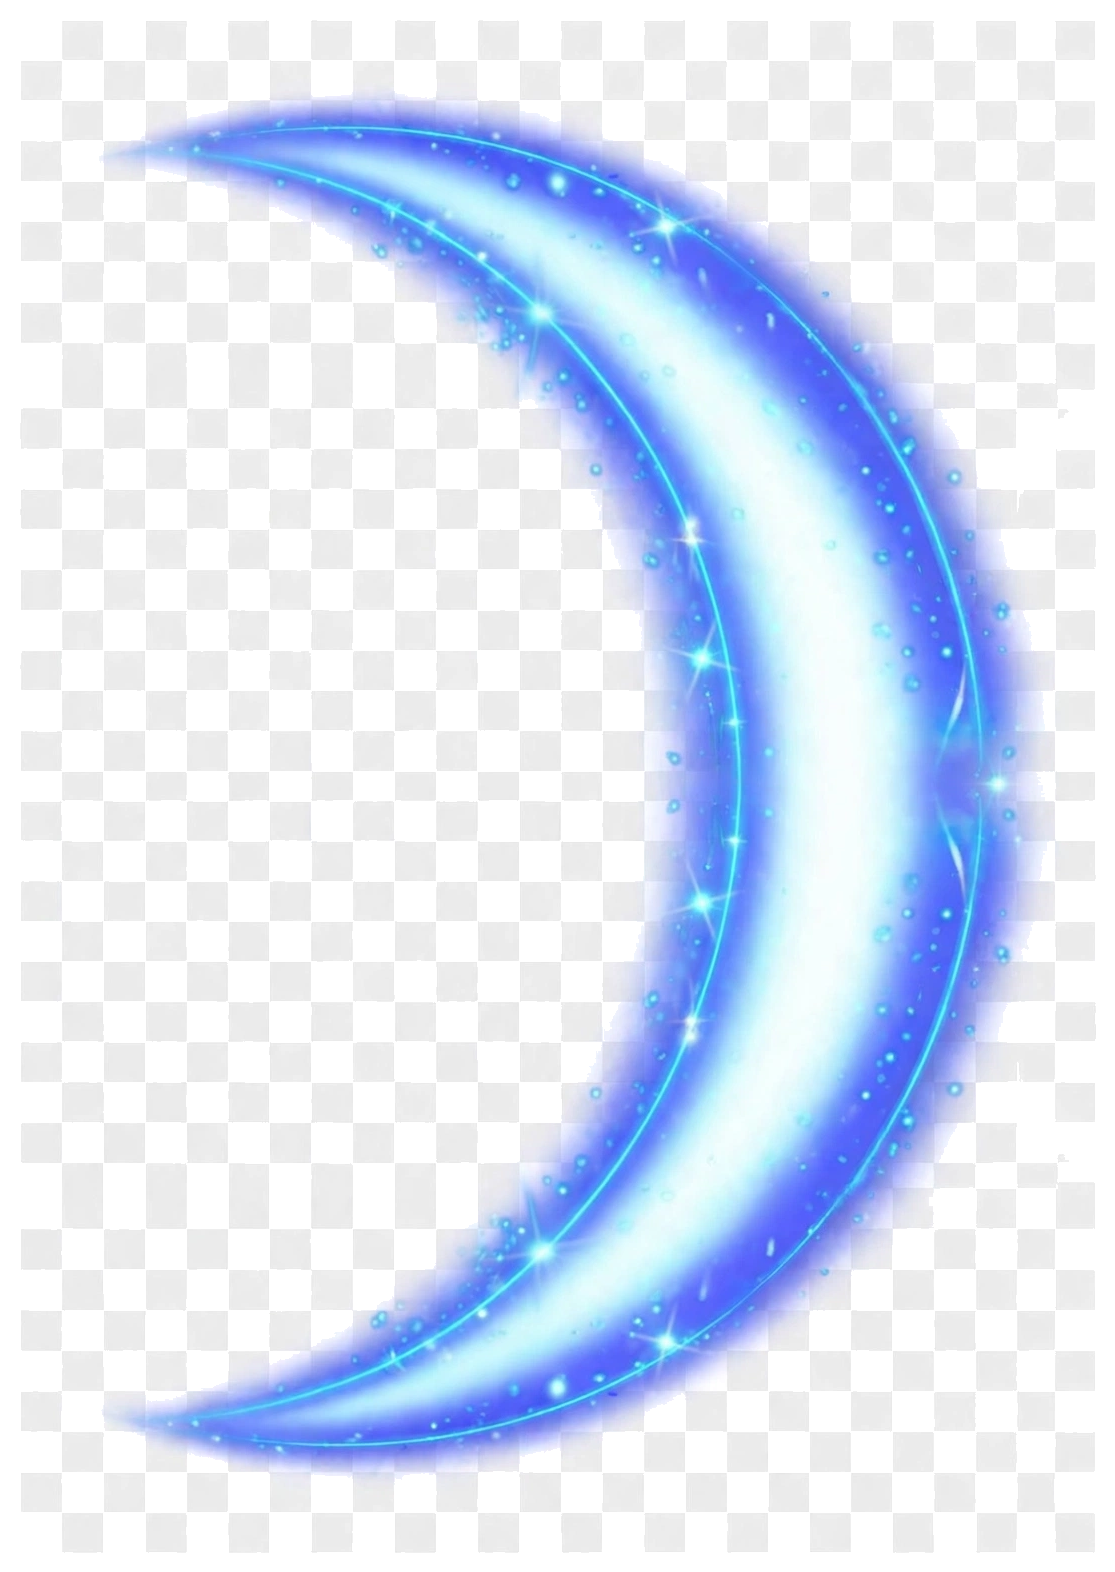
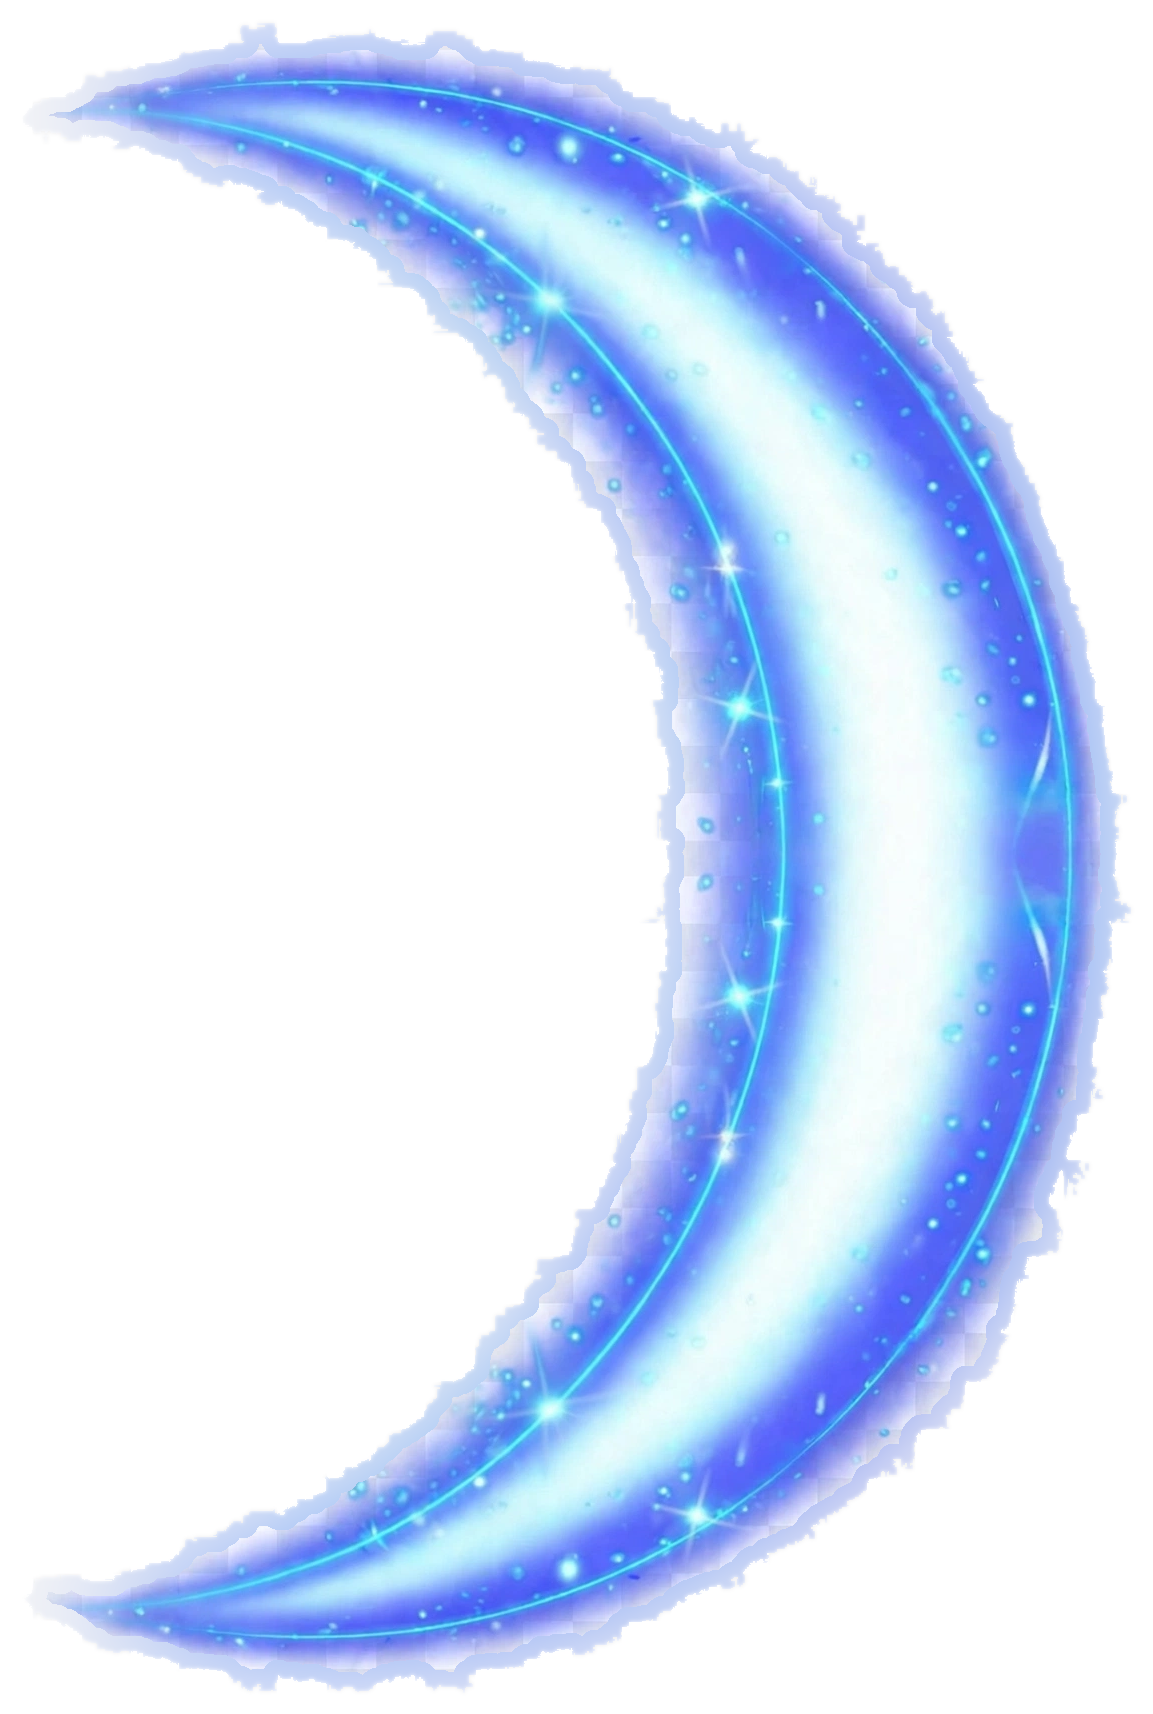
Prompt 172: disable UnlockAllForTesting, fix scorpion facing, R01S01 anchors, SwordQi image

diff --git a/Match3RPG/Assets/Scripts/Campaign/GameProgressService.cs b/Match3RPG/Assets/Scripts/Campaign/GameProgressService.cs
@@ -55,7 +55,7 @@ namespace Match3RPG.Campaign
 
         // TẠM MỞ HẾT ĐỂ TEST (Prompt 115) — sau khi test xong đặt lại false để khôi phục rule
         // phải qua map cũ mới mở map mới. KHÔNG xóa dữ liệu PlayerPrefs.
-        public static readonly bool UnlockAllForTesting = true;
+        public static readonly bool UnlockAllForTesting = false;
 
         public static int HighestUnlockedRegion => Mathf.Clamp(PlayerPrefs.GetInt(HighestRegionKey, 1), 1, 5);
 

diff --git a/Match3RPG/PROMPT_LOG.md b/Match3RPG/PROMPT_LOG.md
@@ -181,3 +181,28 @@
   - Vào trận bấm kỹ năng Lôi Thần: hero đứng yên kết ấn (KHÔNG lao tới) → mây giông tụ trên đầu boss, vòng xanh hiện dưới chân boss, sét đánh trúng vòng (không lệch lên đầu, không lơ lửng) → sát thương 100 hiện đúng lúc sét chạm vòng (f46) → boss Hit/Death đúng → cooldown 3 turn + pizza wipe → bấm khi chưa đủ mana/nộ hiện đúng câu "Không đủ tinh lực để sử dụng kỹ năng".
   - Chốt sau Play-test: tên thật (TẠM "Lôi Thần"), cost (TẠM 3 mana / 0 nộ), cooldown (TẠM 3 turn), sát thương (TẠM 100), kích thước hiệu ứng (TẠM cao `1.6 ×` chiều cao battle boss).
 - **Lỗi (nếu fail):** Không có.
+
+
+
+## Prompt 172 — 2026-11-27 — commit (xem ntfy / git log)
+- **Build:** `Assembly-CSharp.csproj` exit 0 (14 warning, 0 error); `Assembly-CSharp-Editor.csproj` exit 0 (28 warning, 0 error).
+- **File đã đổi:**
+  - `Match3RPG/Assets/Scripts/Campaign/GameProgressService.cs`
+  - `Match3RPG/Assets/Resources/Campaign/Bosses/region_03_boss_05.asset`
+  - `Match3RPG/Assets/Resources/Campaign/Bosses/region_03_boss_06.asset`
+  - `Match3RPG/Assets/Resources/Campaign/Bosses/region_03_boss_07.asset`
+  - `Match3RPG/Assets/Resources/Campaign/Bosses/region_03_boss_08.asset`
+  - `Match3RPG/Assets/Resources/Campaign/Bosses/region_01_boss_01.asset`
+  - `Match3RPG/Assets/Art/VFX/Skills/SwordQi/SwordQi_C.png`
+  - `Match3RPG/PROMPT_LOG.md`
+- **Làm được gì:**
+  - Tắt `UnlockAllForTesting` (`true` → `false`) tại `GameProgressService.cs` dòng 58, giữ nguyên comment dòng 56–57 và 2 nhánh `if (UnlockAllForTesting)` dòng 80, 100 để khôi phục rule phải qua map cũ mới mở map mới.
+  - Sửa `sourceFacing: 1` → `0` cho cả 4 boss Bọ Cạp Đỏ Pha Lê (`region_03_boss_05.asset` … `region_03_boss_08.asset`) để không bị lật lưng về phía hero trong trận.
+  - Dọn sót anchor rồng trên Lâm Phong (`region_01_boss_01.asset`): `vfxAnchor` `(0.5, 0.58)` → `(0.5, 0.48)`, `headVfxAnchor` `(0.5, 1.22)` → `(0.5, 0.82)`; giữ nguyên `floatingTextAnchor: (0.5, 0.49)` và `sourceFacing: 1`.
+  - Xác nhận `SwordQi_C.png` đã là bản đúng (1153×1714 RGBA, MD5 `cc9492179315e23a53153f26a494bee7`, giữ nguyên `.meta` / GUID `54ac3c3c1d642d94cb91136ce0c0da22`) và đưa vào commit.
+- **Chờ Play-test:**
+  - Vào R03 stage 5–8 xem Bọ Cạp Đỏ Pha Lê quay mặt về hero (không quay lưng nữa).
+  - Vào R01 stage 1 xem Stun/shield không hiện cao quá đầu Lâm Phong.
+  - Bắn kỹ năng Kiếm Khí kiểm tra ảnh bay ra không còn nền checkerboard.
+  - Vào bản đồ thế giới / vùng xem khóa/mở ải hoạt động đúng rule cũ (không còn mở hết 50 ải, phải qua map cũ mới mở map mới).
+- **Lỗi (nếu fail):** Không có.
